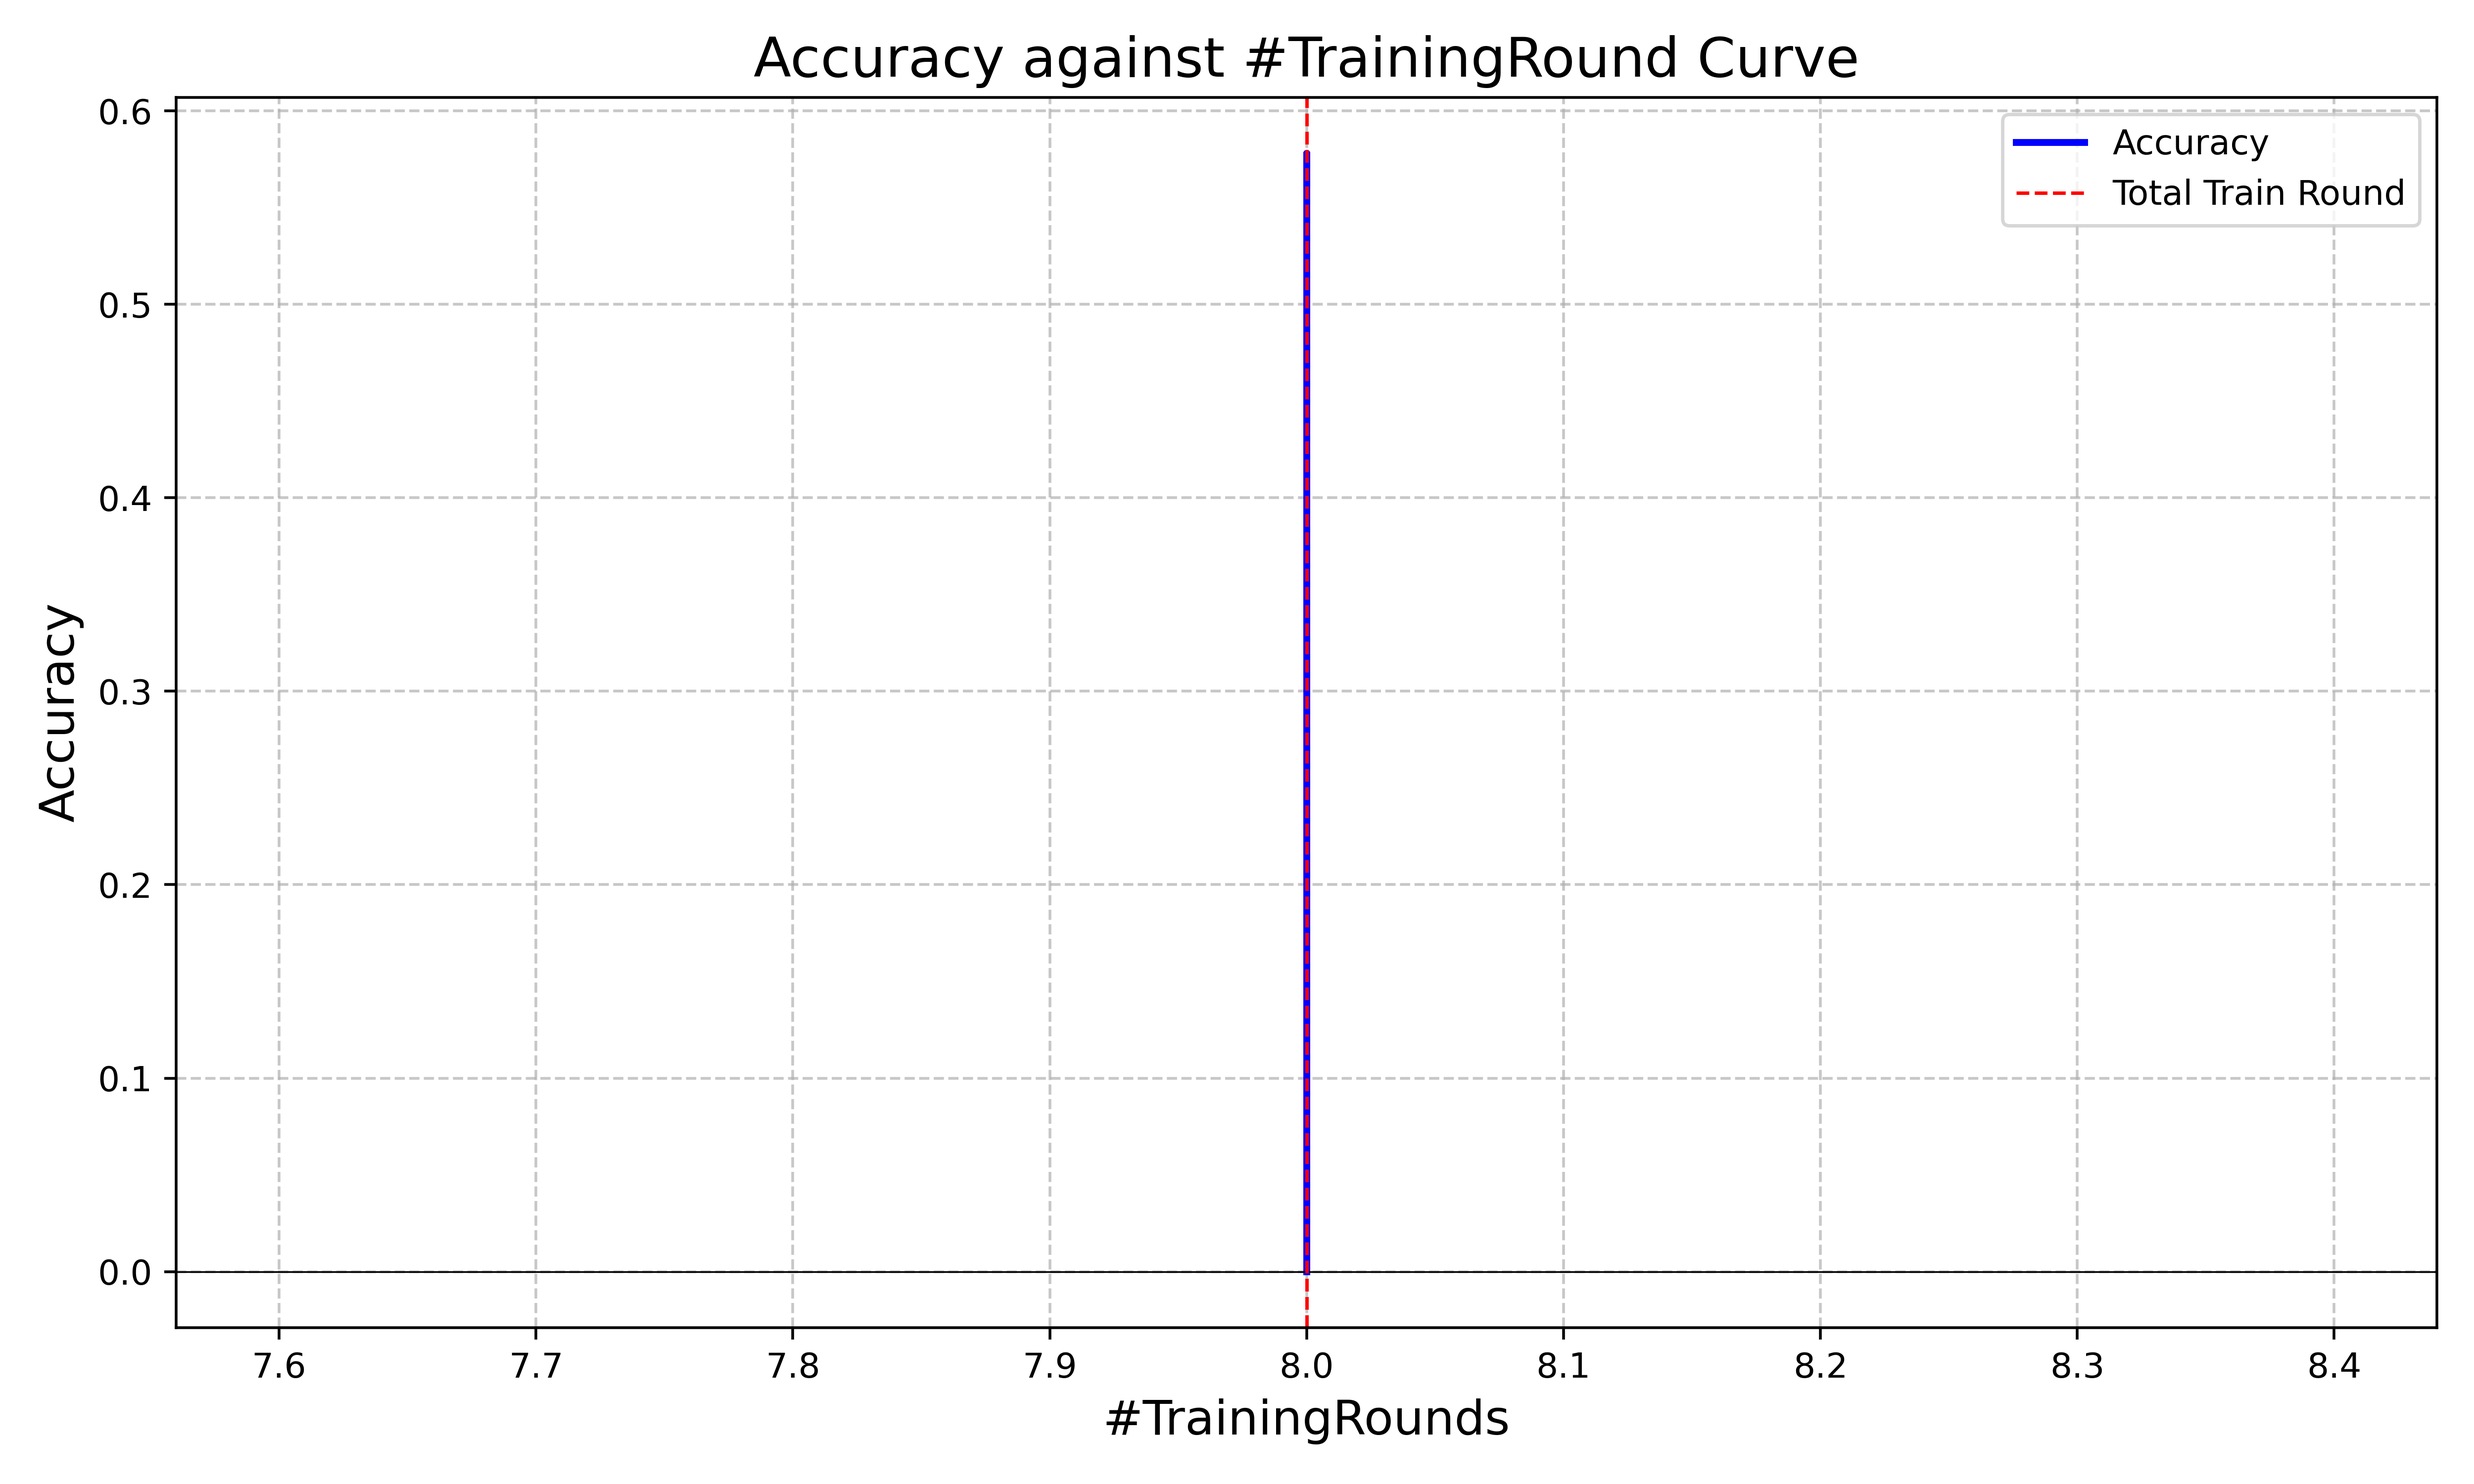
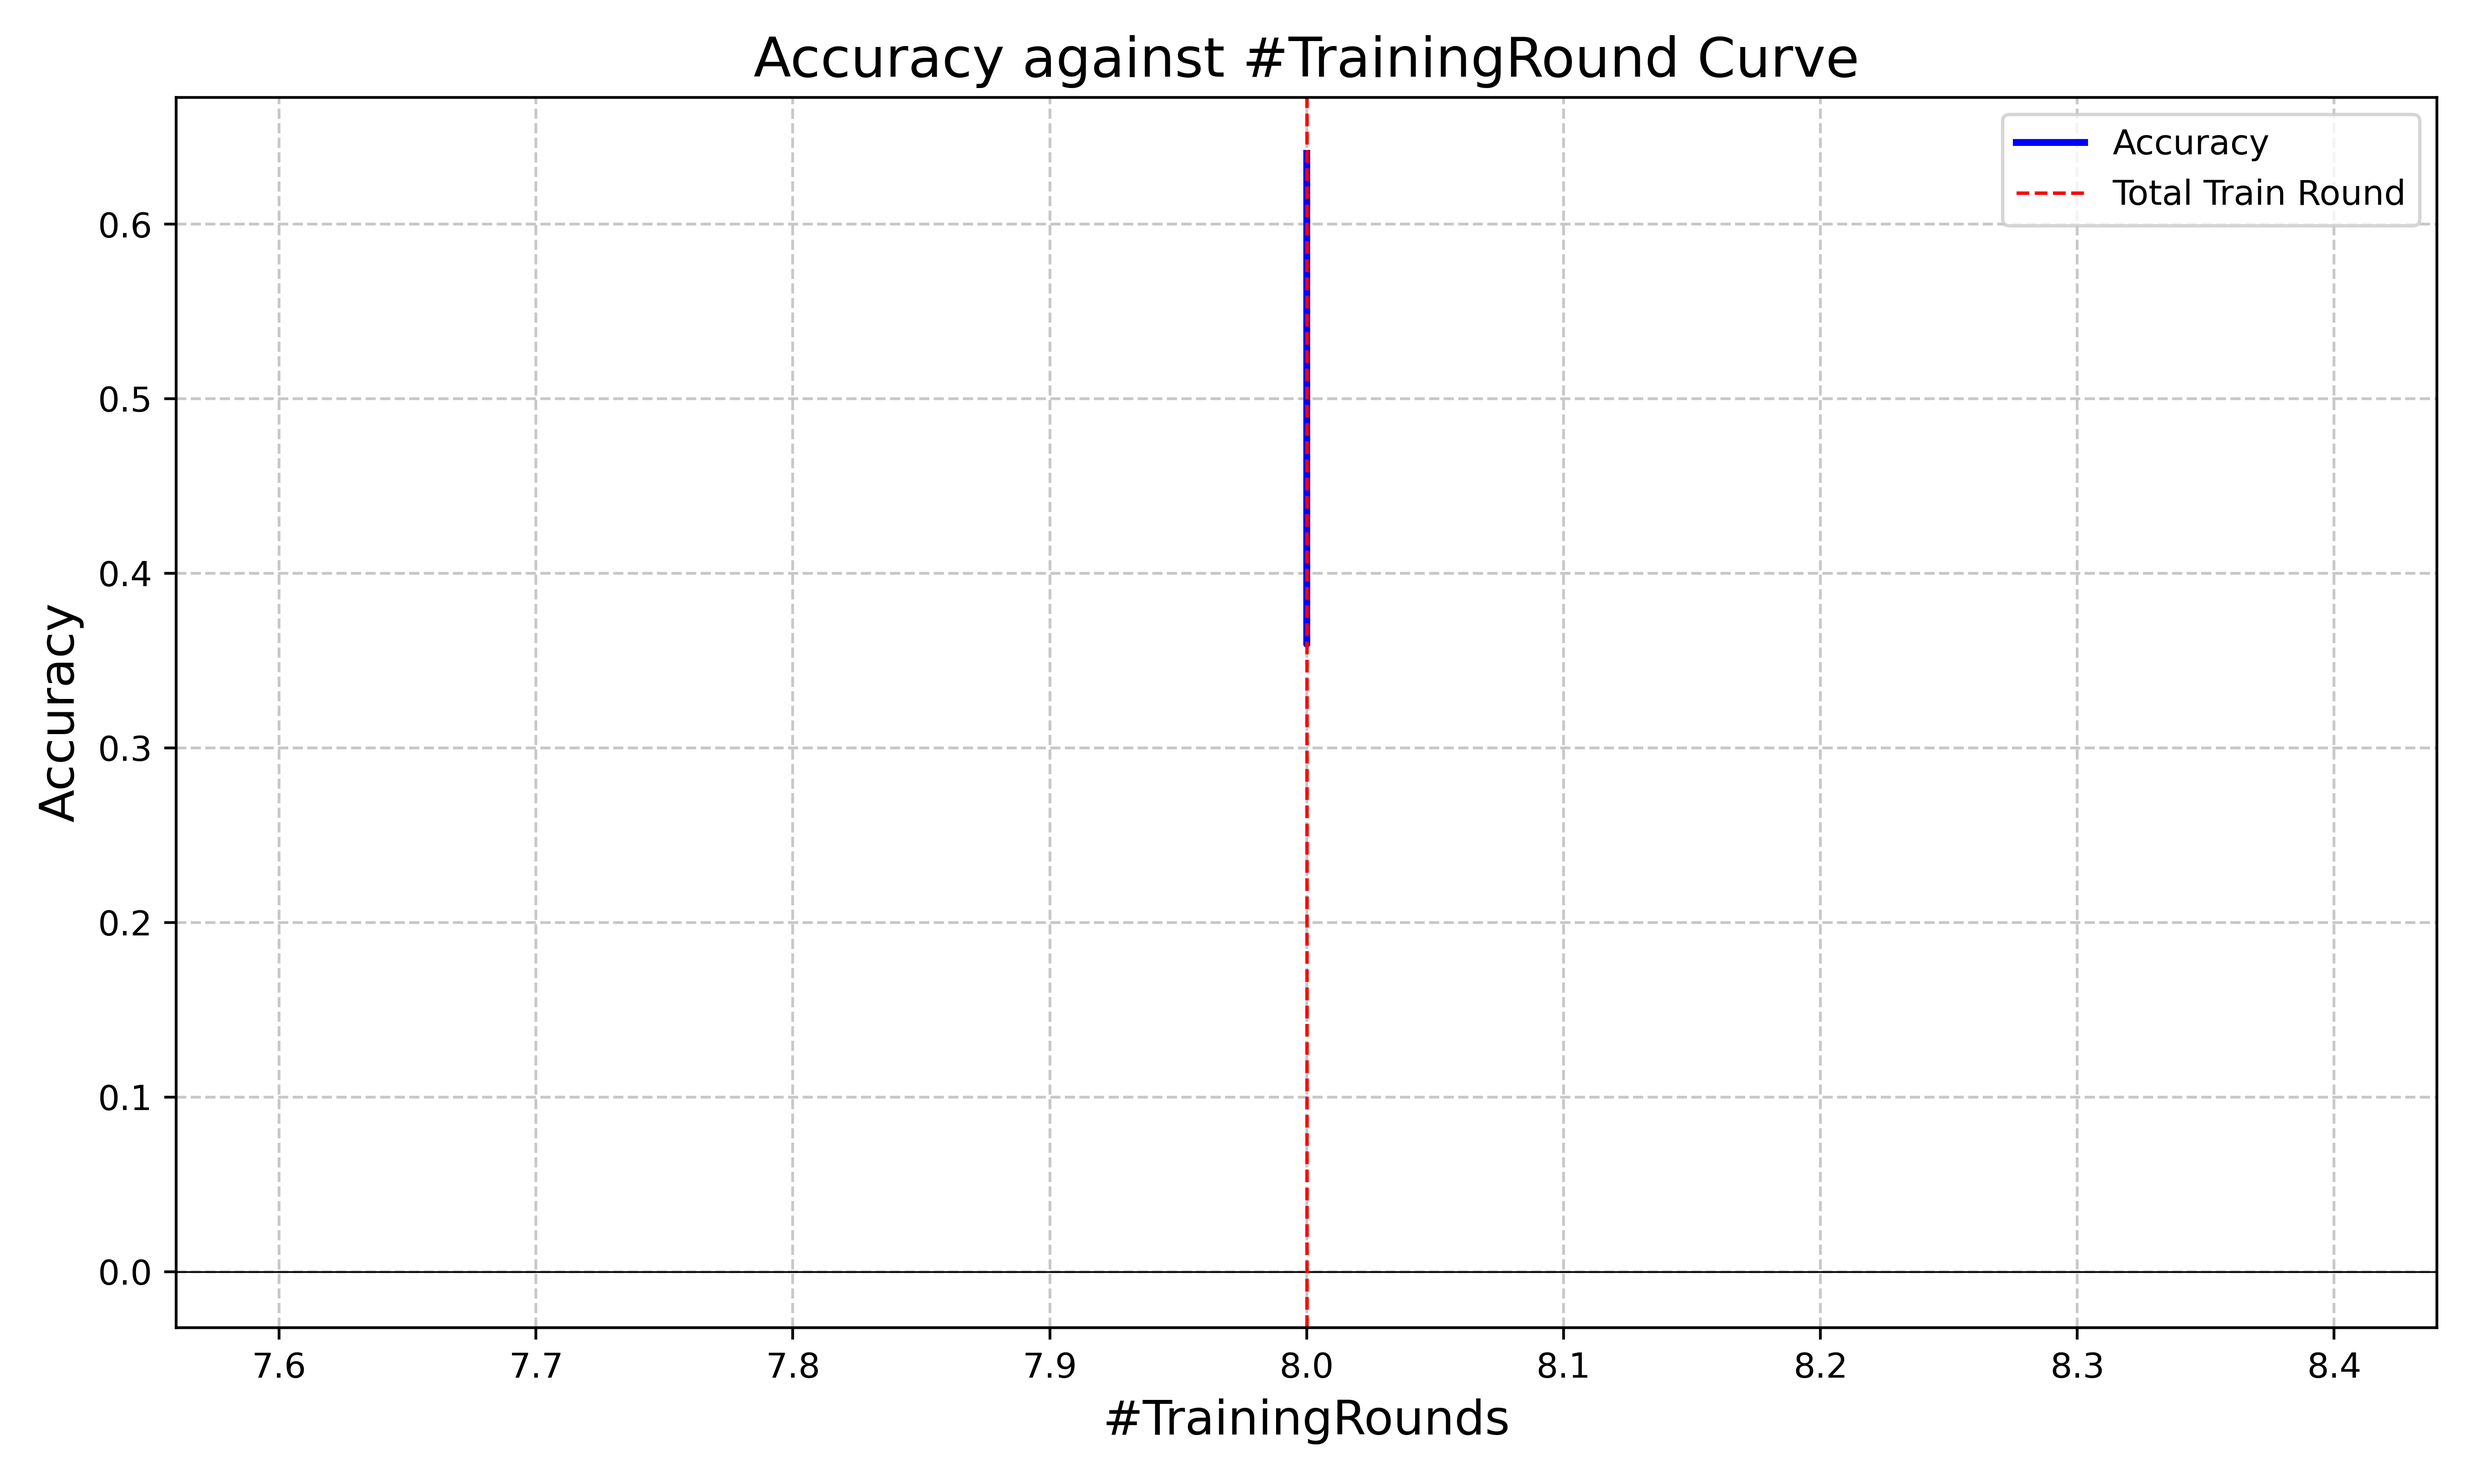
upd icl

diff --git a/train_icl.py b/train_icl.py
@@ -54,6 +54,7 @@ Evaluating Data:
 {1}
 
 Please answer True/False to each evaluating data, and output a single list containing all the answers in order. Eg: [True, False, False, ...]
+**Only output the list, do not include any other text.**
 """
 
 train_data_template = "String: {0}\nLabel: {1}"
@@ -74,13 +75,7 @@ def run(mkey, model, tokenizer, msgdict, msg, temp=0.3):
         sleep(1)
         outputs = model(inputs, max_tokens=1024, temperature=temp)
         ch = outputs.choices[0]
-        print("finish_reason:", ch.finish_reason)        # 看是 stop/length/tool_calls/content_filter/...
-        print("content_repr:", repr(ch.message.content)) # 看是不是空字符串/全空白
-        print("usage:", getattr(outputs, "usage", None))    # 看 prompt/ completion tokens
-        msgdict.append({
-            'role': 'assistant',
-            'content': outputs.choices[0].message.content
-        })
+        res = outputs.choices[0].message.content
     else:
         outputs = model.generate(
             inputs, 
@@ -91,11 +86,8 @@ def run(mkey, model, tokenizer, msgdict, msg, temp=0.3):
             temperature=temp
         ) # other params: https://huggingface.co/docs/transformers/v4.39.3/en/main_classes/text_generation
         
-        msgdict.append({
-            'role': 'assistant',
-            'content': tokenizer.decode(outputs[0][len(inputs[0]):], skip_special_tokens=True)
-        })
-    return msgdict
+        res = tokenizer.decode(outputs[0][len(inputs[0]):], skip_special_tokens=True)
+    return msgdict, res
 
 if __name__ == "__main__":
     parser = argparse.ArgumentParser()
@@ -155,8 +147,9 @@ if __name__ == "__main__":
 
         # print(prompt)
 
-        msgdict = run(mkey, model, tokenizer, msgdict, prompt)
-        eval_pred = msgdict[-1]["content"][1:-1].split(",")
+        msgdict, res = run(mkey, model, tokenizer, msgdict, prompt)
+        print(f"Results at epoch {epoch}: {res}")
+        eval_pred = res[1:-1].split(",")
         eval = sum([int(x.strip() == y.strip()) for x, y in zip(eval_pred, eval_labels)]) / len(eval_labels)
 
         num_samples.append(len(train_ex))
@@ -166,8 +159,6 @@ if __name__ == "__main__":
         os.makedirs(".cache", exist_ok=True)
         with open(f".cache/msgdict.json", "w") as f:
             json.dump(msgdict, f, indent=4)
-
-    print(f"Pos train / Tot train = {num_train_pos_sam} / {num_train_samples}")
 
     plot_accuracy_curve(num_samples, accs, "accuracy_curves", 
                         f"icl_model={args.mkey}")
